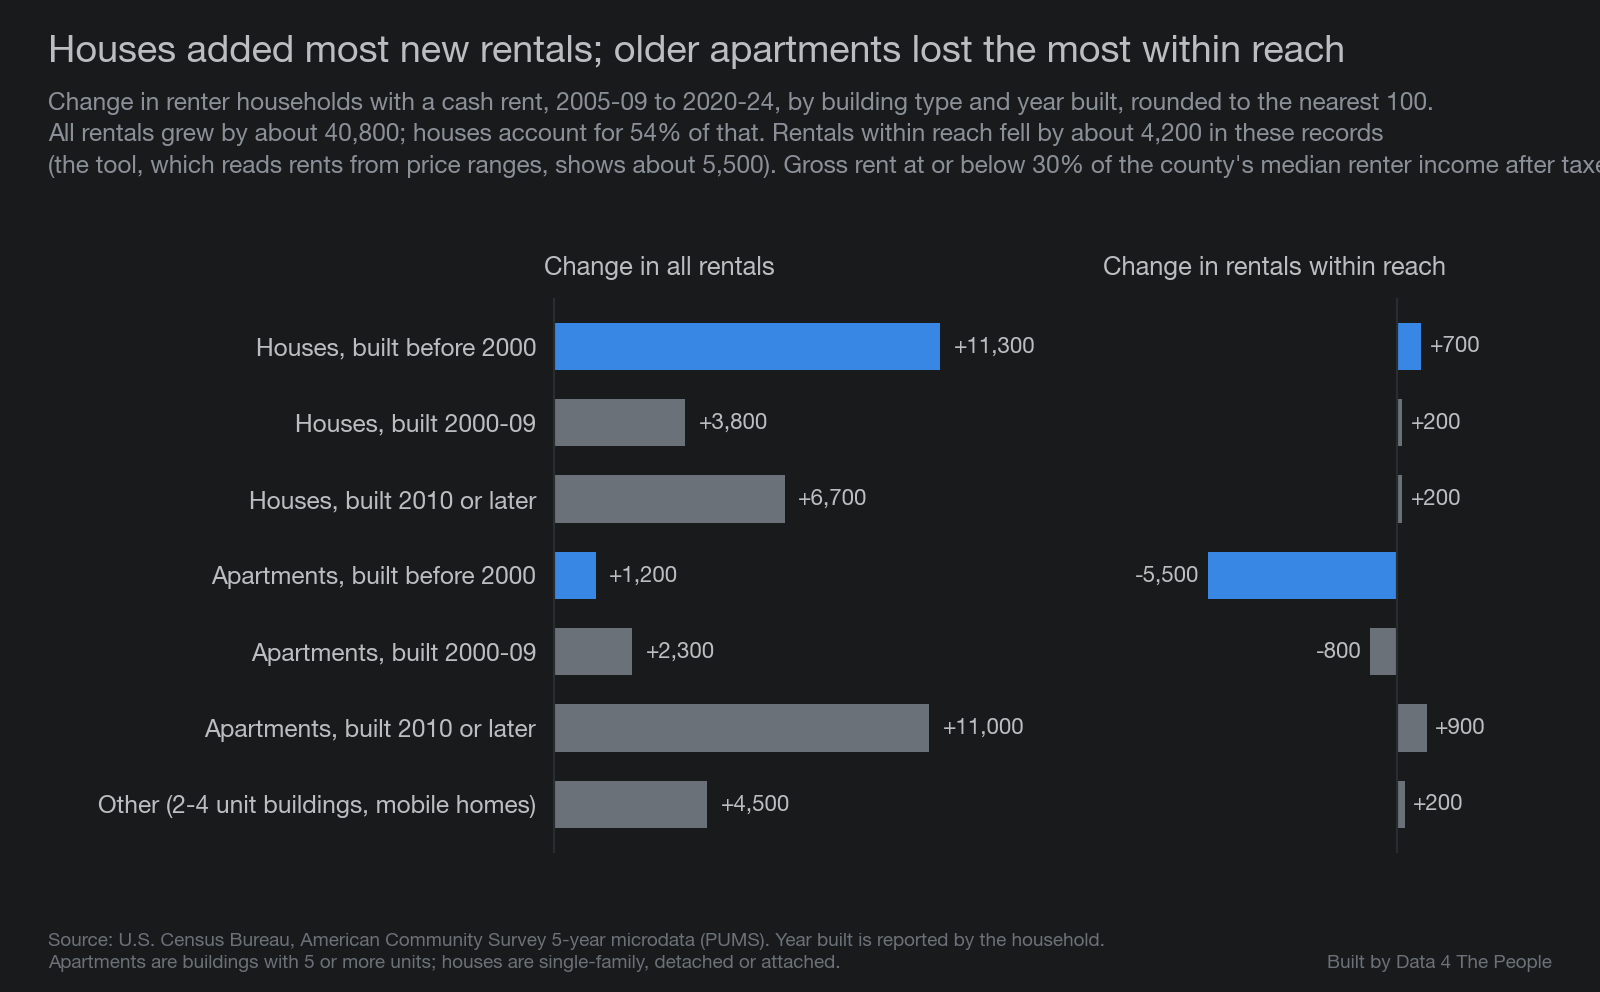
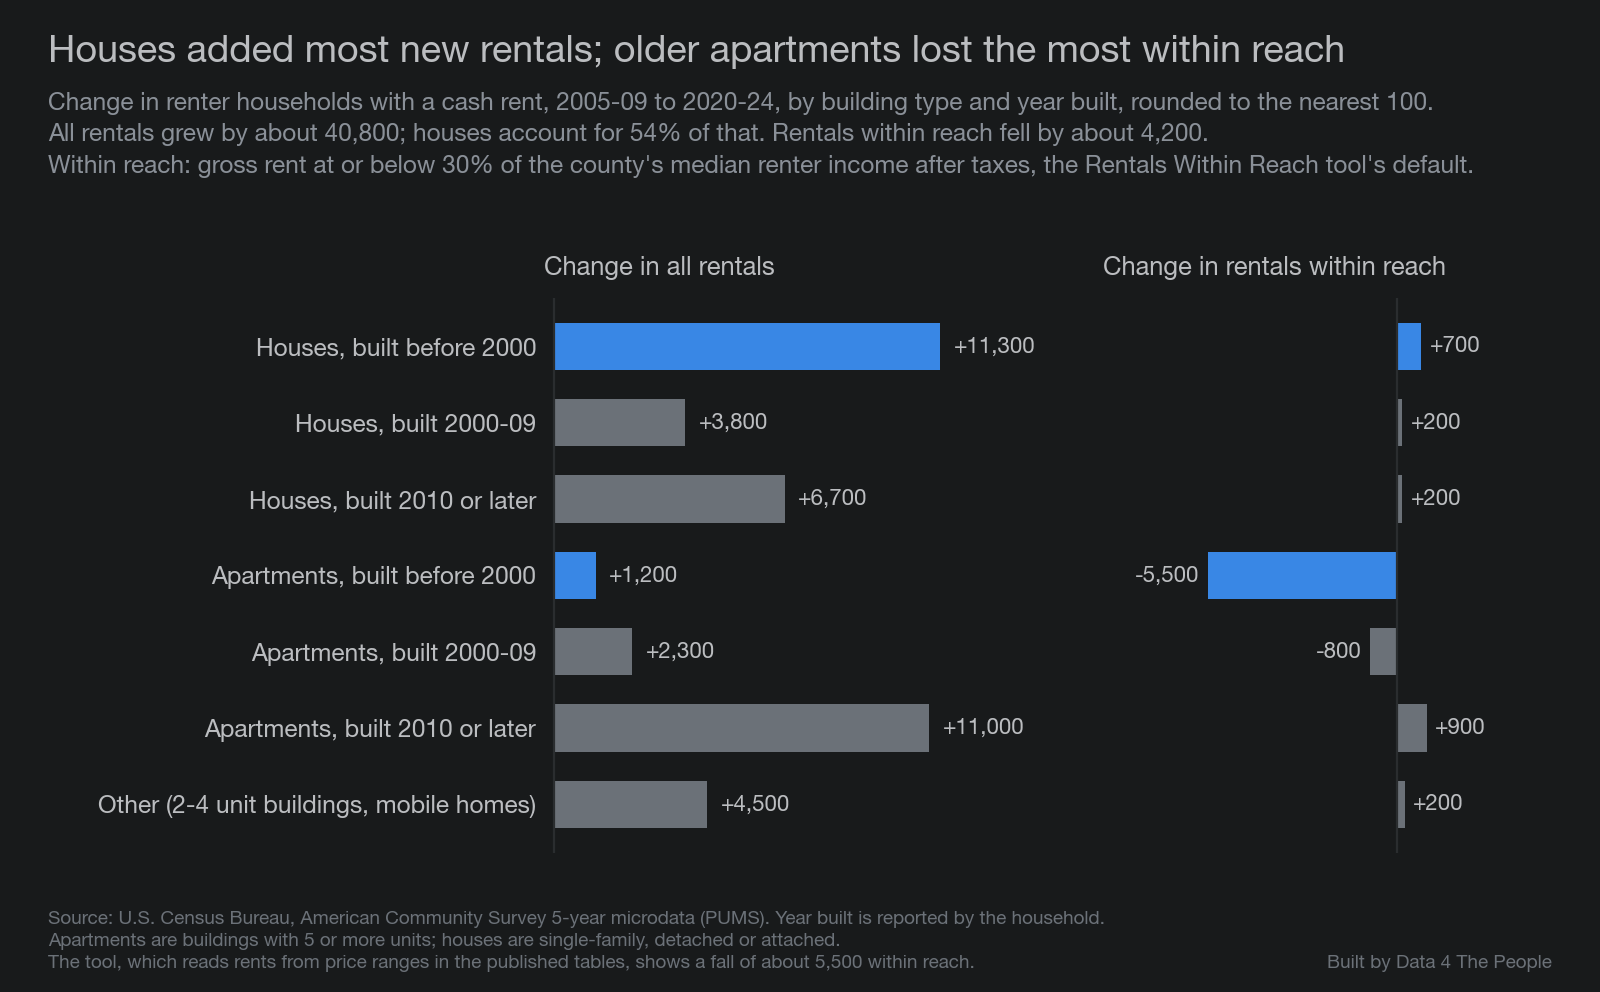
gwinnett-county-rents: growth-by-age chart, tool count noted in source line

Changed region(s): [[0.0312, 0.9062, 0.6875, 1.0], [0.0312, 0.125, 1.0, 0.1875]]

diff --git a/scripts/09_charts.py b/scripts/09_charts.py
@@ -419,9 +419,9 @@ def growth_by_age():
     titleblock(fig, "Houses added most new rentals; older apartments lost the most within reach",
                f"Change in renter households with a cash rent, 2005-09 to 2020-24, by building type and year built, rounded to the nearest 100.\n"
                f"All rentals grew by about {round(tot, -2):,.0f}; houses account for {100 * houses / tot:.0f}% of that. "
-               f"Rentals within reach fell by about {round(-sum(in_ch), -2):,.0f} in these records\n"
-               f"(the tool, which reads rents from price ranges, shows about {round(-tool_drop, -2):,.0f}). " + REACH.replace(",\nthe", ", the").replace("Within reach: g", "G"))
-    credit(fig, PUMS)
+               f"Rentals within reach fell by about {round(-sum(in_ch), -2):,.0f}.\n" + REACH.replace(",\nthe", ", the"))
+    credit(fig, PUMS + f"\nThe tool, which reads rents from price ranges in the published tables, shows a fall of about"
+           f" {round(-tool_drop, -2):,.0f} within reach.")
     save(fig, "13-growth-by-age.png")
 
 
